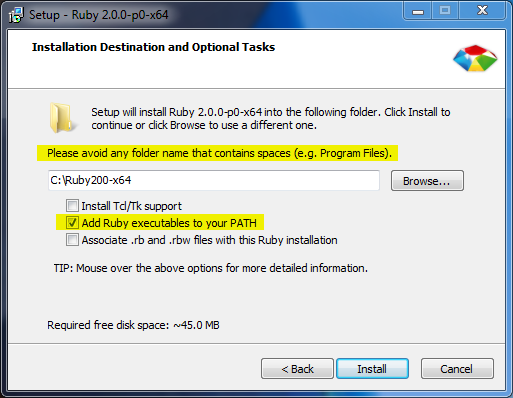
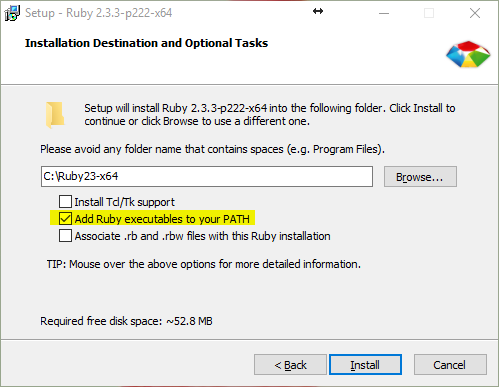
Update existing posts

Changed region(s): [[0.0, 0.0, 1.0, 1.0], [0.0902, 0.6512, 0.7214, 0.7132]]

diff --git a/_posts/2013-05-10-setup-jekyll-on-windows.md b/_posts/2013-05-10-setup-jekyll-on-windows.md
@@ -1,13 +1,17 @@
 ---
 layout: post
-title: "在 Windows 上安装 Jekyll"
-description: "如何在 Windows 上安装 Jekyll"
+title: "在 Windows 上安装 Jekyll 3"
+description: "如何在 Windows 上安装 Jekyll 3"
 categories: [笔记]
 tags: [jekyll, ruby, windows]
 redirect_from:
   - /2013/05/10/
+last_updated: 2017年1月7日
 ---
+
 > 若想查看原文，请点击[本链接](http://yizeng.me/2013/05/10/install-jekyll-3-on-windows/)。
+>
+> 最近更新于 - 2017年1月7日
 
 * Kramdown table of contents
 {:toc .toc}
@@ -18,11 +22,11 @@ redirect_from:
 1. 前往 <http://rubyinstaller.org/downloads/>
 
 2. 在 "RubyInstallers" 部分，选择某个版本点击下载。<br />
-   例如， Ruby 2.0.0-p451 (x64) 是适于64位 Windows 机器上的 Ruby 2.0.0 x64 安装包。
+   例如，`Ruby 2.3.3-p222 (x64)` 是适于64位 Windows 机器上的 Ruby 2.3.3 x64 安装包。
 
 3. 通过安装包安装
 
-	- 最好保持默认的路径 `C:\Ruby200-x64`，
+	- 最好保持默认的路径 `C:/Ruby23-x64`，
 	  因为安装包明确提出 “请不要使用带有空格的文件夹 (如： Program Files)”。
 	- 勾选 "Add Ruby executables to your PATH"，这样执行程序会被自动添加至 PATH 而避免不必要的头疼。
 
@@ -36,7 +40,7 @@ redirect_from:
 
 	输出示例：
 
-	> ruby 2.0.0p451 (2014-02-24) [x64-mingw32]
+	> ruby 2.3.3p222 (2016-11-21 revision 56859) [x64-mingw32]
 
 ## 安装 DevKit
 {: #install-devkit}
@@ -47,7 +51,7 @@ DevKit 是一个在 Windows 上帮助简化安装及使用 Ruby C/C++ 扩展如 
 1. 再次前往 <http://rubyinstaller.org/downloads/>
 
 2. 下载同系统及 Ruby 版本相对应的 DevKit 安装包。
-   例如，DevKit-mingw64-64-4.7.2-20130224-1432-sfx.exe 适用于64位 Windows 系统上的 Ruby 2.0.0 x64。
+   例如，DevKit-mingw64-64-4.7.2-20130224-1432-sfx.exe 适用于64位 Windows 系统上的 Ruby 2.3.3 x64。
 
 	下面列出了如何选择正确的 DevKit 版本：
 
@@ -57,13 +61,12 @@ DevKit 是一个在 Windows 上帮助简化安装及使用 Ruby C/C++ 扩展如 
 
 3. 运行安装包并解压缩至某文件夹，如 C:\DevKit
 
-4. 通过初始化来创建 config.yml 文件。在命令行窗口内，输入下列命令：
+4. 通过初始化来创建 config.yml 文件。在 `C:\DevKit` 文件夹内打开命令行窗口，输入下列命令：
 
-	> cd "C:\DevKit"<br />
 	> ruby dk.rb init<br />
 	> notepad config.yml
 
-5. 在打开的记事本窗口中，于末尾添加新的一行 `- C:\Ruby200-x64`，保存文件并退出。
+5. 在打开的记事本窗口中，于末尾添加新的一行 `- C:/Ruby23-x64`，保存文件并退出。
 
 6. 回到命令行窗口内，审查（非必须）并安装。
 
@@ -79,62 +82,27 @@ DevKit 是一个在 Windows 上帮助简化安装及使用 Ruby C/C++ 扩展如 
 
 	输出示例：
 
-	> 2.0.14
+	> 2.6.8
 
-2. 安装 Jekyll gem
+2. 安装 Jekyll 和 [Bundler](http://bundler.io/) gems
 
-	> gem install jekyll
+	> gem install jekyll bundler
 
-## 安装 Pygments
-{: #install-pygements}
+3. 确保 jekyll gem 已经正确安装
 
-Jekyll 里默认的语法高亮插件是 [Pygments](http://pygments.org/)。
-它需要安装 Python 并在网站的配置文件 `_config.yml` 里将 `highlighter` 的值设置为 `pygments`。
+	> jekyll -v
 
-不久之前，Jekyll 还添加另一个高亮引擎名为 [Rouge](https://github.com/jayferd/rouge)，
-尽管暂时不如 Pygments 支持那么多的语言，但它是原生 Ruby 程序，而不需要使用 Python。
-更多信息请[点此](http://jekyllrb.com/docs/templates/#code_snippet_highlighting)关注。
+    输出示例:
 
-### 安装 Python
-{: #install-python}
+	> jekyll 3.3.1
 
-1. 前往 <http://www.python.org/download/>
-2. 下载合适的 Python windows 安装包，如 Python 2.7.6 Windows Installer。 请注意，Python 2 可能会更合适，因为暂时 Python 3 可能不会正常工作。
-3. 安装
-4. 添加安装路径 (如： C:\Python27) 至 PATH。(如何操作? 请参见 [故障诊断 #1](#troubleshooting))
-5. 检验 Python 安装是否成功
+4. 确保 bundler gem 已经正确安装
 
-	> python --version
+	> bundle -v
 
-	输出示例：
+    输出示例:
 
-	> Python 2.7.6
-
-### 安装 'Easy Install'
-{: #install-easy-install}
-
-1. 浏览 <https://pypi.python.org/pypi/setuptools#installation-instructions> 来查看详细的安装指南。
-2. 对于 Windows 7 的机器，下载 [ez_setup.py](https://bitbucket.org/pypa/setuptools/raw/bootstrap/ez_setup.py) 并保存，例如，至`C:\`。
-   然后从命令行使用 Python 运行此文件：
-
-	> python "C:\ez_setup.py"
-
-3. 添加 'Python Scripts' 路径 (如： C:\Python27\Scripts) 至 PATH
-
-### 安装 Pygments
-{: #install-pygements-2}
-
-1. 确保 easy_install 已经正确安装
-
-	> easy_install --version
-
-	输出示例：
-
-	> setuptools 3.1
-
-2. 使用 "easy_install" 来安装 Pygments
-
-	> easy_install Pygments
+	> Bundler version 1.13.7
 
 ## 启动 Jekyll
 {: #start-jekyll}
@@ -144,16 +112,18 @@ Jekyll 里默认的语法高亮插件是 [Pygments](http://pygments.org/)。
 
 > jekyll new myblog<br />
 > cd myblog<br />
-> jekyll serve
+> bundle exec jekyll serve
+
+<a class="post-image" href="/assets/images/posts/2013-05-11-new-jekyll-3-site.png">
+<img itemprop="image" data-src="/assets/images/posts/2013-05-11-new-jekyll-3-site.png" src="/assets/javascripts/unveil/loader.gif" alt="New Jekyll 3 Site" />
+</a>
 
 ## 故障诊断
 {: #troubleshooting}
 
 1. 错误信息：
 
-	   “python” is not recognized as an internal or external command, operable program or batch file.
-
-	**其他情况**： 这里的 "python" 也可能是 "ruby"， "gem" 或是 "easy_install" 等。
+	   "ruby" is not recognized as an internal or external command, operable program or batch file.
 
 	**可能原因**： 该程序可能未被正确地安装或未在 PATH 里设置成功。
 
@@ -162,7 +132,7 @@ Jekyll 里默认的语法高亮插件是 [Pygments](http://pygments.org/)。
 	> 1. 按住 Win 键再按下 Pause
 	> 2. 点击 Advanced System Settings
 	> 3. 点击 Environment Variables
-	> 4. 将 ;C:\python27 添加至 Path 变量的末尾
+	> 4. 将 `;C:\Ruby23-x64\bin` 添加至 Path 变量的末尾
 	> 5. 重启命令行
 
 2. 错误信息：
@@ -170,7 +140,7 @@ Jekyll 里默认的语法高亮插件是 [Pygments](http://pygments.org/)。
 	   ERROR:  Error installing jekyll:
 	   ERROR: Failed to build gem native extension.
 
-	   "C:/Program Files/Ruby/Ruby200-x64/bin/ruby.exe" extconf.rb
+	   "C:/Program Files/Ruby23-x64/bin/ruby.exe" extconf.rb
 
 	   creating Makefile
 	   make generating stemmer-x64-mingw32.def
@@ -187,15 +157,25 @@ Jekyll 里默认的语法高亮插件是 [Pygments](http://pygments.org/)。
 
 3. 错误信息：
 
+       New jekyll site installed in C:/Code/GitHub/blog.
+        Dependency Error: Yikes! It looks like you don't have bundler or one of its dependencies installed. In order to use Jekyll as currently configured, you'll need to install this gem. The full error message from Ruby is: 'cannot load such file -- bundler' If you run into trouble, you can find helpful resources at http://jekyllrb.com/help/!
+       jekyll 3.3.1 | Error:  bundler
+
+     **可能原因**: Bundler gem 未被正确安装.
+
+     **尝试解法**: 运行命令 `gem install bundler`
+
+4. 错误信息：
+
 	   Generating... Liquid Exception: No such file or directory - python c:/Ruby200-x64/lib/ruby/gems/2.0.0/gems/pygments.rb-0.4.2/lib/pygments/mentos.py in 2013-04-22-yizeng-hello-world.md
 
-	**可能原因**： Pygments 未能被正确安装或是 PATH 设置尚未生效。
+	**可能原因**： 如果你正在使用 Jekyll 2 和 Pygments， 这个错误很可能意味着 Pygments 未能被正确安装或是 PATH 设置尚未生效。
 
 	**尝试解法**： 首先请确保 Pygments 已成功安装且 Python 的 PATH 设置正确未包含空格和最后多余的斜杠。
     然后重启命令行。如果依旧失败，请尝试注销并重新登录 Windows。
     甚至使用终极解法，重启电脑。
 
-4. 错误信息：
+5. 错误信息：
 
 	   Generating... Liquid Exception: No such file or directory - /bin/sh in _posts/2013-04-22-yizeng-hello-world.md
 
@@ -203,10 +183,10 @@ Jekyll 里默认的语法高亮插件是 [Pygments](http://pygments.org/)。
 
 	**尝试解法**： 将 pygments.rb gem 的版本从 0.5.1/0.5.2 降至 0.5.0。
 
-	> gem uninstall pygments.rb --version '=0.5.2'<br />
-	> gem install pygments.rb --version 0.5.0
+	> gem uninstall pygments.rb \--version '=0.5.2'<br />
+	> gem install pygments.rb \--version 0.5.0
 
-5. 错误信息：
+6. 错误信息：
 
 	   c:/Ruby200-x64/lib/ruby/2.0.0/rubygems/dependency.rb:296:in `to_specs': Could not find 'pygments.rb' (~> 0.4.2) - did find: [pygments.rb-0.5.0] (Gem::LoadError)
 	   from c:/Ruby200-x64/lib/ruby/2.0.0/rubygems/specification.rb:1196:in `block in activate_dependencies'
@@ -220,10 +200,10 @@ Jekyll 里默认的语法高亮插件是 [Pygments](http://pygments.org/)。
 
 	**尝试解法**： 将 pygments.rb gem 的版本降级至 0.4.2
 
-	> gem uninstall pygments.rb --version “=0.5.0”<br />
-	> gem install pygments.rb --version “=0.4.2”
+	> gem uninstall pygments.rb \--version “=0.5.0”<br />
+	> gem install pygments.rb \--version “=0.4.2”
 
-6. 错误信息：
+7. 错误信息：
 
 	   Generating... You are missing a library required for Markdown. Please run:
 	   $ [sudo] gem install rdiscount
@@ -233,14 +213,12 @@ Jekyll 里默认的语法高亮插件是 [Pygments](http://pygments.org/)。
 	      ------------------------------------
 	      Missing dependency: rdiscount
 
-	**可能原因**： 依赖包 `rdiscount` 未找到。
+	**可能原因**： 如果你还是在使用 Jekyll 2, 这个错误很可能是因为依赖包 `rdiscount` 未找到。
 	此问题最有可能的原因是，网站使用的是 [rdiscount](https://github.com/davidfstr/RDiscount) 作为 Markdown 引擎，而不是 Jekyll 默认的引擎，故需要手动自行安装。
 
-	**尝试解法**：
+	**尝试解法**：运行 `gem install rdiscount`
 
-	> gem install rdiscount
-
-7. 错误信息：
+8. 错误信息：
 
 	   c:/Ruby200-x64/lib/ruby/site_ruby/2.0.0/rubygems/core_ext/kernel_require.rb:55:in `require': cannot load such file -- wdm (LoadError)
 	   from c:/Ruby200-x64/lib/ruby/site_ruby/2.0.0/rubygems/core_ext/kernel_require.rb:55:in `require'
@@ -251,9 +229,7 @@ Jekyll 里默认的语法高亮插件是 [Pygments](http://pygments.org/)。
 
 	**可能原因**： `wdm` gem 未被安装。因为 Jekyll 只官方地支持 *nix 系统，所以 [Windows Directory Monitor][WDM] 并没有作为依赖包而被自动安装。
 
-	**尝试解法**：
-
-	> gem install wdm
+	**尝试解法**：将 `gem 'wdm', '>= 0.1.0' if Gem.win_platform?` 加入 `Gemfile` 文件，然后再次运行 `bundle install`.
 
 [Full installation instructions]: https://github.com/oneclick/rubyinstaller/wiki/Development-Kit#installation-instructions
 [Jekyll Quick-start guide]: http://jekyllrb.com/docs/quickstart/

diff --git a/_posts/2013-05-17-quick-rubygems-command-references-for-jekyll.md b/_posts/2013-05-17-quick-rubygems-command-references-for-jekyll.md
@@ -10,46 +10,46 @@ redirect_from:
 ---
 `gem --help` 显然会是很有用且值得一读的，可惜过长，故挑出以下一些命令作为常用参考。
 
-## 安装/卸载 gem
+- 安装/卸载 gem
 
-	gem install jekyll
-	gem uninstall jekyll
+> gem install jekyll<br />
+> gem uninstall jekyll
 
-## 安装某特定版本的 gem
+- 安装某特定版本的 gem
 
-	gem install pygments.rb --version 0.4.2
+> gem install pygments.rb \--version 0.4.2
 
-## 卸载某特定版本的 gem
+- 卸载某特定版本的 gem
 
-提示 'Select gem to uninstall' 并让用户选择
+  + 提示 'Select gem to uninstall' 并让用户选择
 
-	gem uninstall jekyll
+	> gem uninstall jekyll
 
-卸载指定版本
+  + 卸载指定版本
 
-	gem uninstall jekyll --version 1.0.1
-	gem uninstall jekyll --version '<1.0.1'
+	> gem uninstall jekyll \--version 1.0.1<br />
+	> gem uninstall jekyll \--version '<1.0.1'
 
-移除所有旧版本的 Jekyll
+  + 移除所有旧版本的 Jekyll
 
-	gem cleanup jekyll
+	> gem cleanup jekyll
 
-## 列出所有本地的 gem
+- 列出所有本地的 gem
 
-	gem list --local
+> gem list \--local
 
-## 列出所有的 gem
+- 列出所有的 gem
 
-	gem list --all
+> gem list \--all
 
-## 列出所有 Jekyll 的 gem
+- 列出所有 Jekyll 的 gem
 
-	gem list jekyll
+> gem list jekyll
 
-## 更新已安装的 gem
+- 更新已安装的 gem
 
-	gem update
+> gem update
 
-## 更新已安装的系统 gem
+- 更新已安装的系统 gem
 
-	gem update --system
+> gem update \--system

diff --git a/_posts/2013-08-10-set-user-agent-using-selenium-webdriver-c-and-ruby.md b/_posts/2013-08-10-set-user-agent-using-selenium-webdriver-c-and-ruby.md
@@ -8,11 +8,14 @@ last_updated: January 08, 2017
 redirect_from:
   - /2013/08/10/
 ---
+
+> 最近更新于 - 2017年1月8日
+
 本文将展示如何使用 Selenium WebDriver C# and Ruby 给 Chrome，Firefox，IE，PhantomJS 浏览器设置 User Agent 的方法。
 
 > 环境:<br />
-> Linux Mint 16, Ruby 2.1.1p76, Selenium 2.41.0, ChromDriver 2.9<br/>
-> Firefox 28.0, Chrome 33, PhantomJS 1.9.7
+> Mac OS Sierra, Ruby 2.3.1p112, Selenium 3.0.5, ChromDriver 2.26, GeckoDriver 0.13
+> Firefox 50.1, Chrome 55, PhantomJS 1.9.8
 >
 > User Agent 示例（ipad）:<br />
 > Mozilla/5.0(iPad; U; CPU iPhone OS 3_2 like Mac OS X; en-us) AppleWebKit/531.21.10 (KHTML, like Gecko) Version/4.0.4 Mobile/7B314 Safari/531.21.10
